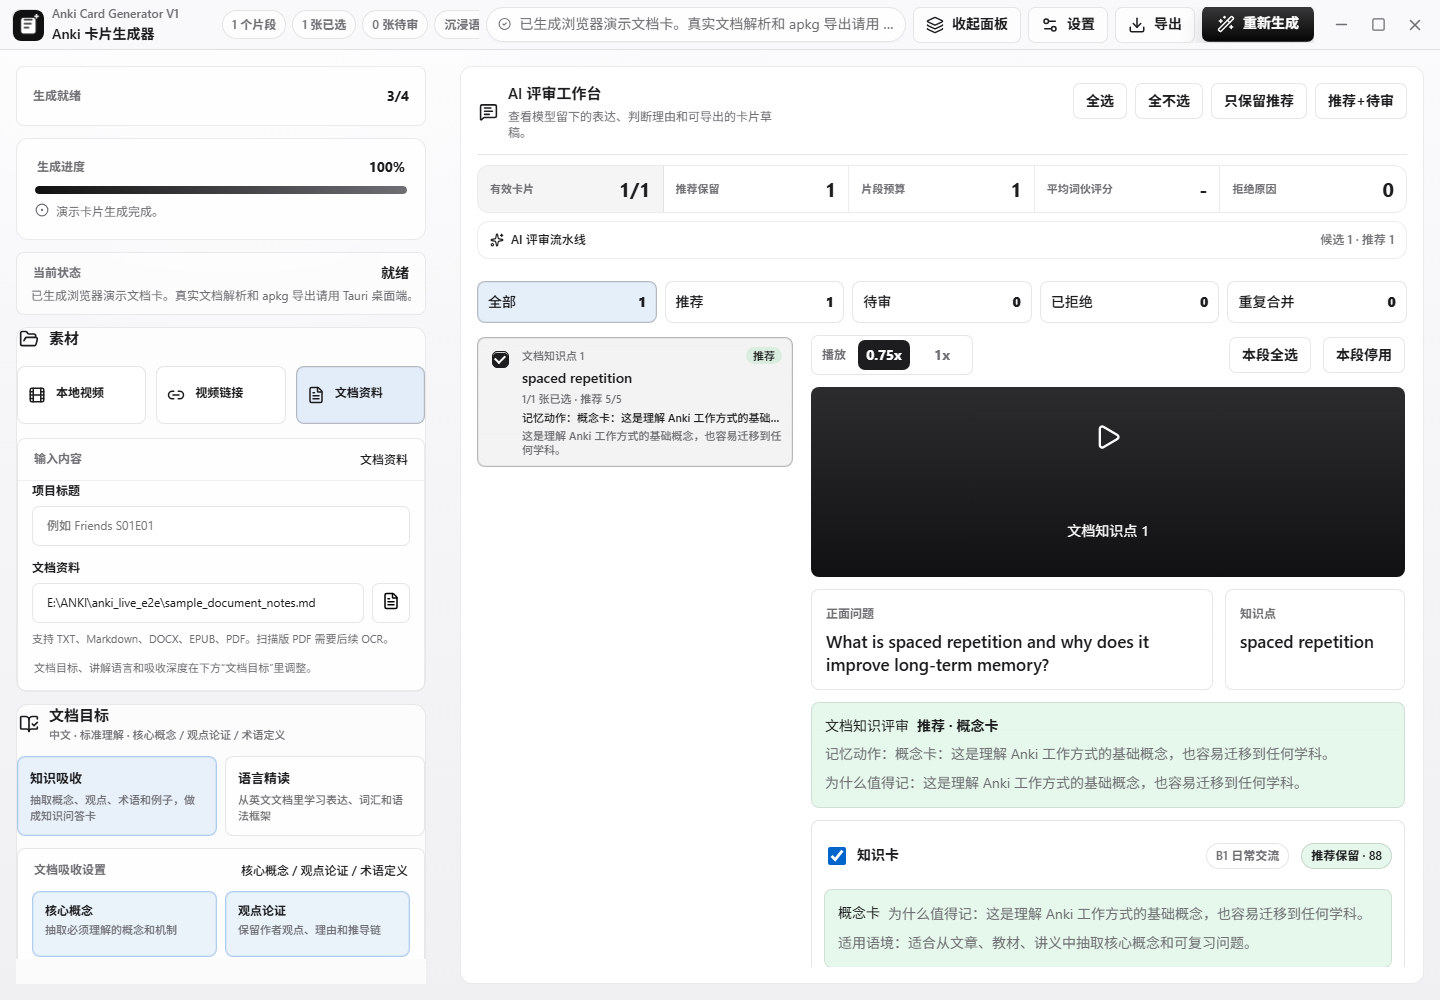
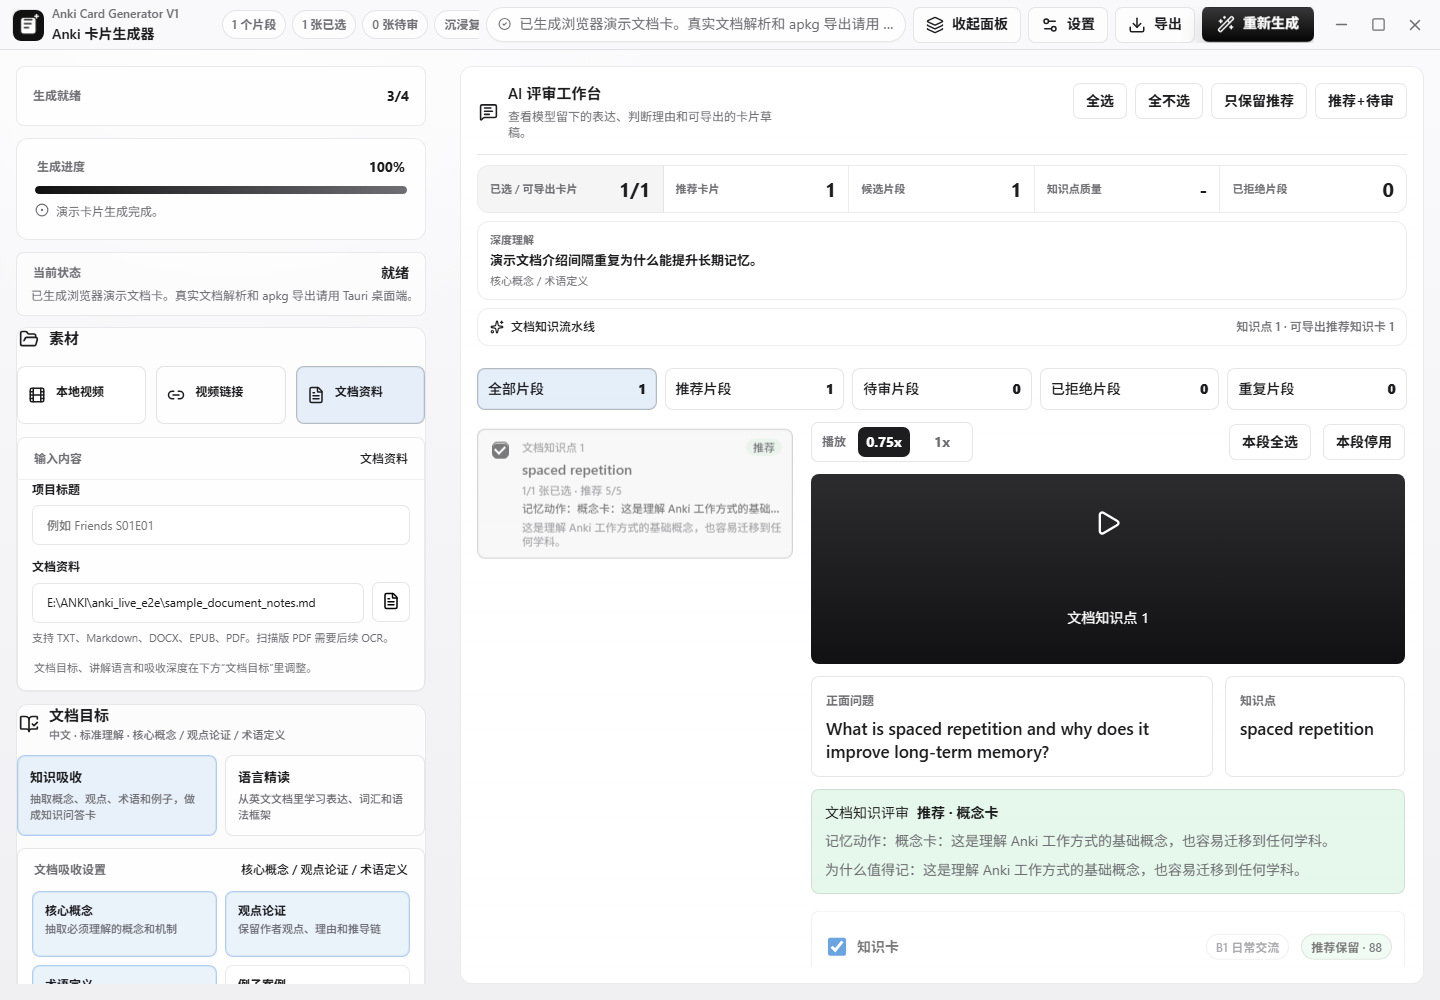
Refresh release docs and screenshots

diff --git a/tests/ui-smoke.spec.ts b/tests/ui-smoke.spec.ts
@@ -67,7 +67,7 @@ test('desktop workflow shell supports simplified settings, URL mode, document mo
   await expect(page.getByText('6 张已选')).toBeVisible()
   await expect(page.getByText('演示卡片生成完成。')).toBeVisible()
   await expect(page.getByText('平均词伙评分')).toBeVisible()
-  await expect(page.getByText('拒绝原因')).toBeVisible()
+  await expect(page.getByLabel('生成审核概览').getByText('已拒绝片段')).toBeVisible()
 
   await page.locator('.preference-details summary').click()
   await expect(page.getByRole('button', { name: /沉浸复读 V11/ })).toBeVisible()

diff --git a/docs/HANDOFF_FOR_NEXT_CHAT.md b/docs/HANDOFF_FOR_NEXT_CHAT.md
@@ -9,7 +9,7 @@ Use this file when opening a fresh Codex / GPT review window for the Anki Card G
 - Active branch: `codex/complete-refactor-hardening`
 - Active PR: https://github.com/zixuanzhou0-ai/Anki-card-generator/pull/6
 - PR base: `main`
-- Current status when this handoff was written: PR #6 contains the document-study split plus local-video, API-key persistence, TTS export, Qwen3 TTS voice hardening, the first Deep Study / contextual vocabulary card pipeline, and the new default `沉浸复读 V11` Anki template for video/subtitle cards. Local working tree should be clean after pushing the latest commit.
+- Current status when this handoff was written: PR #6 contains the document-study split plus local-video, API-key persistence, TTS export, Qwen3 TTS voice hardening, Gemini Vertex TTS setup, the first Deep Study / contextual vocabulary card pipeline, the default `沉浸复读 V11` Anki template for video/subtitle cards, and candidate-review hardening from GPT Pro feedback. Local working tree should be clean after pushing the latest commit.
 
 Important: ask reviewers to inspect PR #6, not only `main`. The latest document-study work is on the PR branch.
 
@@ -37,8 +37,16 @@ Recent hardening added after the initial document-study split:
 - `language_focus` now defaults to `phrases + vocabulary + listening`. `vocabulary_usage` exports as `语境生词卡` while keeping V10 APKG fields compatible.
 - Candidate review is no longer worded as MIMO-only; OpenAI-compatible providers such as DeepSeek V4 and Qwen / DashScope can run the same AI candidate review path.
 - DeepSeek V4 Pro / Flash presets were added with official model IDs `deepseek-v4-pro` and `deepseek-v4-flash`. The worker now treats DeepSeek V4 as a thinking model: streaming `reasoning_content` keeps progress alive while final JSON parsing ignores thinking text.
+- Gemini Vertex TTS is documented and available through the Vertex / `gcloud` auth path. It uses local `gcloud auth print-access-token` rather than storing a TTS API key.
 - V10 APKG visual templates are now split by export family: video/subtitle language cards, document knowledge cards, and document reading cards use different front/back HTML while keeping the existing field names. The templates no longer rely on JS overflow fitting and allow stable vertical scrolling.
 - Video/subtitle language cards now default to `immersive_v11` / `沉浸复读 V11`: front side is shadowing-first with autoplaying muted loop video and custom `原声` / `慢读` buttons; back side shows core expression, Chinese intuition, source sentence, phrase TTS, compact replay video, and explanation blocks. `immersive` remains as the old V10 fallback option.
+- GPT Pro review follow-up added hard gates to the AI candidate-review merge path:
+  - `exact_span` must be recoverable from the original sentence.
+  - `answer_core` must be a clean English answer, not mixed Chinese/IPA/explanation text.
+  - each `source_segment_id` keeps at most two learning points.
+  - AI-rejected candidates are not revived by the local minimum-count fallback.
+  - export results now carry `template_version` / `anki_tag`, and Anki import verification uses the actual V10/V11 tag.
+- README, user guide, troubleshooting, release notes, release checklist, beta limitations, handoff, screenshots, PR body, and repo About description were refreshed after this hardening pass.
 
 ## Key Files
 
@@ -137,6 +145,15 @@ npm run test:unit -- src/features/learning/LearningSettingsPanel.test.tsx src/fe
 python -m pytest tests/test_worker_quality.py -q
 ```
 
+Latest targeted checks for candidate-review hardening and docs refresh:
+
+```powershell
+python -m unittest tests.test_worker_quality
+npm run build
+npm run test:ui
+git diff --check
+```
+
 ## Current Product Decisions
 
 - Keep the two-pane layout: left Inspector, right Workspace. Do not restore the old left Rail.
@@ -180,12 +197,13 @@ Current shipped direction:
 - Video / URL = English context learning.
 - Video / URL now use Deep Study by default: understand material -> review candidates -> write cards.
 - Contextual vocabulary cards are in scope and labeled `语境生词卡`.
+- AI candidate review now has strict `exact_span` / `answer_core` validation and same-sentence max-two learning point arbitration.
 - Document input = knowledge absorption by default.
 - Document input has optional language_reading mode.
 - Two-pane desktop layout stays; do not restore the left Rail.
 
 Next likely work:
-1. Real Deep Study local-video generation QA with Qwen / DashScope and APKG import.
+1. Real Deep Study local-video generation QA with Qwen / DashScope / Gemini Vertex and APKG import.
 2. Continue visual QA on the split language / knowledge / document-reading Anki templates.
 3. Add document generate/export/APKG verify smoke.
 4. Improve pending-review cues and mobile screenshots for the Anki templates.
@@ -216,6 +234,8 @@ Focus on whether the document input path is now genuinely independent from video
 - document card review/default export behavior
 - README / ARCHITECTURE / USER_GUIDE consistency
 - screenshot freshness
+- README / GitHub PR body / repository About description freshness
+- candidate-review hard gates: exact_span, answer_core, source_segment_id max-two arbitration, no revival of AI rejects
 
 Please identify any remaining inconsistency between source code, tests, documentation, screenshots, and release behavior.
 Return P0/P1/P2 issues with file paths and concrete fixes.

diff --git a/docs/ARCHITECTURE.md b/docs/ARCHITECTURE.md
@@ -54,8 +54,9 @@ Video and URL language learning now have a material-understanding layer:
 - In deep mode, the worker builds a hidden `material_context` before candidate review. It captures the material summary, scene or argument flow, tone, key points, and learning opportunities.
 - Candidate review and card-generation prompts receive `material_context`, so DeepSeek V4, Qwen / DashScope, MIMO, and other OpenAI-compatible models can use reasoning/thinking to judge context before writing cards. For DeepSeek V4 / Qwen / MIMO, worker calls stream `reasoning_content` / thinking deltas for progress updates and parse only the final JSON content.
 - `language_focus` defaults to `phrases + vocabulary + listening`. `vocabulary` produces contextual vocabulary cards through `phrase_type: "vocabulary_usage"` and the exported card label `语境生词卡`; it does not create isolated dictionary cards.
+- The review merge path is intentionally stricter than the prompt. `exact_span` must be recoverable from the source sentence, `answer_core` must be a clean English answer instead of a mixed explanation, and each `source_segment_id` keeps at most two learning points after ranking by value, score, and candidate kind. AI-rejected candidates are not revived by the local minimum-count fallback.
 - APKG field names stay V10-compatible. New identity is stored in project/card metadata such as `study_depth`, `material_context`, `phrase_type`, `content_kind`, and `source_evidence`.
-- APKG export now splits visual note-model families by `deck_kind` and template version. Video/subtitle language cards default to `immersive_v11` (`沉浸复读 V11`): the front is a shadowing surface with autoplaying muted loop video plus custom `原声` / `慢读` buttons, and the back prioritizes core expression, Chinese intuition, source sentence, phrase TTS, and compact explanation blocks. `document_knowledge` keeps a knowledge-answer layout, and `document_reading` keeps a reading layout. The field list stays compatible, while the generated model id includes the template family/version to avoid mixing different front/back HTML under one Anki note model.
+- APKG export now splits visual note-model families by `deck_kind` and template version. Video/subtitle language cards default to `immersive_v11` (`沉浸复读 V11`): the front is a shadowing surface with autoplaying muted loop video plus custom `原声` / `慢读` buttons, and the back prioritizes core expression, Chinese intuition, source sentence, phrase TTS, and compact explanation blocks. `document_knowledge` keeps a knowledge-answer layout, and `document_reading` keeps a reading layout. The field list stays compatible, while the generated model id includes the template family/version to avoid mixing different front/back HTML under one Anki note model. Export results carry `template_version` and `anki_tag`, so import verification checks `anki_card_generator_v10` or `anki_card_generator_v11` according to the actual package.
 
 ## Tauri Boundary
 

diff --git a/README.md b/README.md
@@ -31,12 +31,13 @@
 - 文档知识吸收：支持 TXT、Markdown、DOCX、EPUB、PDF，默认生成知识问答卡。
 - 文档语言精读：可选路径，用于英文文章/书籍里的表达、词汇和语法学习，不生成听力卡。
 - Deep Study 深度理解：模型会先建立素材上下文，再筛选候选和撰写卡片，减少“不是当前视频内容”的跑题卡。
-- AI 学习候选评审：MIMO、Qwen / DashScope 等 OpenAI-compatible 模型都会先评审词伙、语境生词、语法和听力候选，低价值内容默认不导出。
+- AI 学习候选评审：MIMO、Qwen / DashScope、DeepSeek V4、Gemini Vertex 等模型都会先评审词伙、语境生词、语法和听力候选，低价值内容默认不导出。
+- 候选硬校验：AI 返回的 `exact_span` 必须来自原句，`answer_core` 必须是纯英文学习答案；同一句字幕最多保留 2 个学习点，避免一条句子被拆成过多低质卡。
 - 语境生词卡：默认开启“单词用法”，只做来自原句、能解释当前场景并可迁移使用的生词卡，不做孤立词典卡。
 - 自动片段预算：根据视频长度和字幕密度自动决定候选数量。
 - 分流 Anki 模板：视频语言卡默认使用“沉浸复读 V11”，正面只做视频跟读训练，背面快速核对核心表达；文档知识卡和文档精读卡继续使用独立布局。APKG 字段保持向后兼容，卡片自然纵向滚动，不靠动态缩字硬塞进一屏。
 - 多音频导出：视频原声、整句 TTS、表达 TTS。
-- Anki `.apkg` 导出：可手动导入 Anki，也可调用本机 Anki 打开。
+- Anki `.apkg` 导出：可手动导入 Anki，也可调用本机 Anki 打开；导入核验会按导出模板版本查找 `anki_card_generator_v10` / `anki_card_generator_v11` 标签。
 
 ## 工作流程
 
@@ -101,6 +102,7 @@ flowchart TB
 - 英语学习卡优先使用视频原声；需要 AI 朗读时，MiMo V2.5 TTS 仍是当前更稳的英语选择。
 - Qwen3 TTS 已内置美语预设：`Jennifer` 为美语女声，`Aiden` 为美语男声。`Cherry` 仍可用，但更偏通用活泼女声。
 - Qwen3-TTS-Instruct-Flash 可做语速、情绪和朗读风格控制；Qwen3-TTS-VD 可先通过声音设计创建自定义 voice，再把返回的 voice id 填入设置页。
+- Google Gemini Vertex TTS 已作为可选路径加入设置页。它走本机 `gcloud` / Vertex AI 授权，默认使用 `gemini-3.1-flash-tts-preview`，不需要在应用里保存 TTS API Key。
 - 审核页的 `0.75x` 只影响试听播放速度，不会改变导出到 Anki 的 MP3。
 
 ## 必需依赖
@@ -166,6 +168,13 @@ powershell -ExecutionPolicy Bypass -File scripts/package_portable.ps1 -ReleaseEx
 ```powershell
 npm run check:full
 npm run tauri:build
+```
+
+文档和截图更新时请额外确认：
+
+```powershell
+git diff --name-only -- README.md docs
+npm run test:ui
 ```
 
 发布清单见 [Release Checklist](docs/RELEASE_CHECKLIST.md)。

diff --git a/docs/TROUBLESHOOTING.md b/docs/TROUBLESHOOTING.md
@@ -68,6 +68,15 @@ The app should never require a real key in source files, docs, logs, or release 
 
 Use local video + the exact SRT file for that video, then regenerate with Deep Study enabled. The review dashboard should show a “素材理解” card; if its summary describes the wrong material, cancel and check that the selected source mode is still “本地视频” and the paths point to the current video/SRT. If the summary is correct but individual cards are weak, disable that card or switch off the irrelevant learning focus such as “单词用法” or “听力难点”.
 
+The current review pipeline keeps a `source_segment_id` for every candidate, requires `exact_span` to appear in the source sentence, and caps each subtitle sentence at two learning points. If a model returns an explanation as the learning answer, for example `run the register = 负责收银`, the candidate is rejected instead of becoming a broken card title.
+
+If stale cards still appear after switching source type:
+
+1. Confirm the left source selector is still `本地视频`.
+2. Clear the previous generated project by starting a new generation from the selected video/SRT pair.
+3. Check the top summary; it should describe the current material, not an older YouTube URL or document.
+4. Avoid manually reusing old card edits after changing source files.
+
 ## TTS Fails
 
 Common causes:
@@ -78,6 +87,15 @@ Common causes:
 - Balance or quota exhausted.
 
 You can disable TTS and still generate cards with original audio/video. TTS is only needed for extra sentence or phrase audio.
+
+## TTS Audio Does Not Match The Card Text
+
+The exporter generates two different AI audio fields:
+
+- Sentence TTS reads the full `English` source sentence.
+- Phrase TTS reads the visible core answer, normally `answer_core` or the cleaned phrase.
+
+If the phrase audio sounds unrelated, inspect the card in the review panel before export. The core answer must be the English expression only. Chinese meaning, IPA, pronunciation explanations, and teacher notes belong in the explanation fields, not in `answer_core`. The worker now rejects AI-reviewed candidates with mixed-language `answer_core`, but manually edited cards can still be made confusing if the answer field is overwritten with notes.
 
 ## TTS Sounds Slow or Unnatural
 
@@ -102,6 +120,7 @@ Check:
 - The export path ends in `.apkg`.
 - Anki is installed if you want the app to open the package directly.
 - The generated APKG passes `workers/verify_apkg.py`.
+- The import verifier is looking for the correct template tag: V10 packages use `anki_card_generator_v10`; V11 packages use `anki_card_generator_v11`.
 
 Release smoke output includes `verify_apkg.json`, which is the fastest way to inspect missing cards, media files, or template problems.
 

diff --git a/docs/RELEASE_NOTES_v0.9.2-beta.md b/docs/RELEASE_NOTES_v0.9.2-beta.md
@@ -19,8 +19,11 @@ This beta refresh focuses on the visible desktop experience and release assets.
 - Added the default `沉浸复读 V11` Anki template for video/subtitle cards. The front is now a focused shadowing card with autoplaying muted loop video and custom `原声` / `慢读` buttons; the back prioritizes core expression, Chinese intuition, source sentence, phrase TTS, and compact explanation blocks while preserving compatible fields.
 - Generalized candidate review language from MIMO-only phrase review toward OpenAI-compatible AI candidate review, including Qwen / DashScope-compatible reasoning models.
 - Added DeepSeek V4 Pro and DeepSeek V4 Flash presets. DeepSeek V4 thinking output is streamed as progress and stripped before JSON parsing, so the model can keep reasoning without stalling generation at an unchanged percent.
+- Hardened AI candidate review after GPT Pro review: `exact_span` must come from the source sentence, `answer_core` must stay a clean English answer, each subtitle sentence keeps at most two learning points, and AI-rejected candidates are no longer revived by the local fallback.
 - Hardened TTS export so resolved provider settings are used during APKG export, including saved/reused TTS API keys.
 - Updated Qwen3 TTS presets for English cards: `Jennifer` is now the default American English female voice, `Aiden` is available as an American English male voice, and Qwen3 voice-design model IDs are exposed for advanced setup.
+- Added Gemini Vertex TTS configuration docs and UI guidance for Google Vertex-backed speech generation.
+- Updated APKG import verification to use the actual exported template tag, so V11 packages are checked with `anki_card_generator_v11` instead of the legacy V10 tag.
 
 ## Verified
 
@@ -38,3 +41,4 @@ This beta refresh focuses on the visible desktop experience and release assets.
 - Model and TTS calls send selected text to the configured third-party provider and may incur API costs.
 - TTS voice quality varies by provider and voice. For English learning cards, prefer original audio or MiMo V2.5 TTS; if using Qwen3 TTS, try `Jennifer` or `Aiden` before `Cherry`.
 - Deep Study can be slower and use more model tokens because it asks the model to understand the material before selecting cards. Use “快速生成” when validating a workflow quickly.
+- Candidate review may now keep fewer cards than earlier builds because malformed AI answers and over-dense same-sentence candidates are rejected instead of being exported as weak cards.

diff --git a/docs/BETA_LIMITATIONS.md b/docs/BETA_LIMITATIONS.md
@@ -21,8 +21,9 @@ YouTube URL 导入依赖 yt-dlp。失败原因可能包括：
 - Deep Study 默认会额外发送一批候选字幕/文档片段，让模型先建立 `material_context`。这能提升上下文判断，但会增加等待时间和 token 消耗。
 - DeepSeek V4 Pro / Flash、Qwen 和 MIMO 会保留 thinking/推理能力；应用只解析最终 JSON，但 thinking 仍会产生延迟和 token/费用。
 - 语境生词卡依赖模型判断当前句子的真实用法；它不是通用词典卡，仍建议在审核页确认是否值得导出。
+- AI 评审现在会严格拒绝不在原句中的 `exact_span`、混入中文释义/音标/解释的 `answer_core`，并限制同一句最多 2 个学习点。不同模型的推荐数量可能差异明显，这是质量闸门的一部分，不一定代表生成失败。
 - TTS 可能产生费用，且不同服务商的 voice、model、format 支持不完全一致。
-- TTS 音色质量会明显影响英语学习体验。当前英语卡更推荐 MiMo V2.5 TTS；Qwen3 TTS 建议先试 `Jennifer` 美语女声或 `Aiden` 美语男声。
+- TTS 音色质量会明显影响英语学习体验。当前英语卡更推荐 MiMo V2.5 TTS；Qwen3 TTS 建议先试 `Jennifer` 美语女声或 `Aiden` 美语男声；Gemini Vertex TTS 需要本机 `gcloud` 凭据和已启用 Vertex AI 的 Google Cloud 项目。
 - 审核页的 `0.75x` 只是本地试听速度，不代表导出的 Anki 音频速度。
 
 ## 本地依赖

diff --git a/docs/RELEASE_CHECKLIST.md b/docs/RELEASE_CHECKLIST.md
@@ -9,7 +9,9 @@
 - [ ] `.gitignore` 已排除缓存、媒体、`.apkg`、测试输出和 `.venv/`。
 - [ ] 版本号已更新：`package.json`、`package-lock.json`、`src-tauri/tauri.conf.json`、`src-tauri/Cargo.toml`。
 - [ ] `workers/` 已作为 Tauri resources 打包。
-- [ ] README、`PRIVACY.md`、`SECURITY.md` 和 `docs/BETA_LIMITATIONS.md` 与本次发布一致。
+- [ ] README、`PRIVACY.md`、`SECURITY.md`、`docs/BETA_LIMITATIONS.md`、`docs/USER_GUIDE.md` 和 `docs/TROUBLESHOOTING.md` 与本次发布一致。
+- [ ] `docs/screenshots/` 已用当前 UI 重新截图，README 引用的截图都能打开。
+- [ ] PR 描述、仓库 About 描述和 release note 都提到本次主要能力：本地视频/SRT、Deep Study、语境生词、V11 模板、DeepSeek/Gemini/Qwen TTS。
 - [ ] Release note 明确说明 YouTube、第三方模型、TTS 费用和版权限制。
 
 ## 自动测试
@@ -21,6 +23,13 @@ npm run test:ui
 cargo build --manifest-path src-tauri/Cargo.toml --locked
 npm run tauri:build
 npm run smoke:release
+```
+
+文档/截图刷新后额外跑：
+
+```powershell
+npm run test:ui
+git diff --check
 ```
 
 GitHub Actions 必须是绿色；如果 CI 因外部服务故障失败，release note 需要写明原因和人工复核结果。
